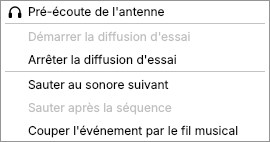
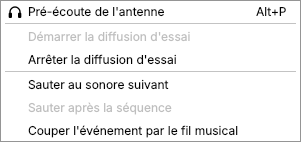
feat(interface): « Arrêter la pré-écoute de l'antenne » pendant l'écoute, et Alt+P
L'entrée en tête du menu « Diffusion » arrête l'écoute de l'antenne
pendant qu'elle joue, et la lance sinon ; Alt+P fait de même. « Nom
public » se saisit par Alt+U dans les fiches, pour laisser Alt+P libre.

https://github.com/dascritch/machincast/issues/256
Entrée menu "Pré-écoute antenne"

Claude-Session: https://claude.ai/code/session_01KaPegkCQoT3k3oMgjXGsiv

diff --git a/src/machincast/interface/fenetre.py b/src/machincast/interface/fenetre.py
@@ -22,7 +22,8 @@ La barre de menus a cinq menus (https://github.com/dascritch/machincast/issues/1
 comme la fermeture de la fenêtre) ; « Affichage », pour ouvrir les listes des sonores et des feeds, et le
 calendrier de la grille, « Grille horaire » (machincast.interface.calendrier,
 https://github.com/dascritch/machincast/issues/36), dans des onglets qui se ferment, et pour rafraîchir les onglets (F5,
-https://github.com/dascritch/machincast/issues/148) ; « Diffusion », qui démarre, arrête ou redémarre le service de
+https://github.com/dascritch/machincast/issues/148) ; « Diffusion », qui lance ou arrête l'écoute de l'antenne (Alt+P,
+https://github.com/dascritch/machincast/issues/256), et démarre, arrête ou redémarre le service de
 diffusion (machincast.interface.pilotage, https://github.com/dascritch/machincast/issues/25) selon son état, relu à
 l'ouverture du menu ; sans le service, la barre d'état dit que l'installation n'est pas définitive, et le menu pilote
 une diffusion d'essai ; « Maintenance », qui lance l'indexation rapide ou l'audit complet
@@ -122,6 +123,12 @@ REGLER_L_ANTENNE = (
 	" dans audio.peripherique du fichier de configuration."
 )
 DEJA_EN_MARCHE = "La diffusion d'essai tourne déjà"
+ECOUTE = {
+	False: ("Pré-écoute de l'antenne", "Écouter l'antenne sur la sortie de pré-écoute, aussitôt"),
+	True: ("Arrêter la pré-écoute de l'antenne", "Arrêter l'écoute de l'antenne sur la sortie de pré-écoute"),
+}
+"""L'entrée d'écoute de l'antenne du menu « Diffusion », et son infobulle, selon que l'antenne s'écoute
+(https://github.com/dascritch/machincast/issues/256)."""
 
 RACCOURCIS_DES_ONGLETS = 12
 """Les onglets qui ont un raccourci, Maj+F1 à Maj+F12 (https://github.com/dascritch/machincast/issues/192)."""
@@ -319,10 +326,12 @@ class FenetrePrincipale(QMainWindow):
 		preecoute.triggered.connect(lambda: self._preecouter(None))
 		self.menu_diffusion = self.menuBar().addMenu("&Diffusion")
 		self.menu_diffusion.aboutToShow.connect(self._relire_le_service)
-		# L'écoute de l'antenne, lancée aussitôt, en tête du menu (https://github.com/dascritch/machincast/issues/245).
-		ecouter = self.menu_diffusion.addAction(icones.icone("pré-écoute"), "Pré-écoute de l'antenne")
-		ecouter.setToolTip("Écouter l'antenne sur la sortie de pré-écoute, aussitôt")
-		ecouter.triggered.connect(lambda: self._ecouter_l_antenne(lancer=True))
+		# L'écoute de l'antenne, lancée aussitôt, en tête du menu (https://github.com/dascritch/machincast/issues/245) ;
+		# pendant l'écoute, elle l'arrête, et Alt+P fait l'un ou l'autre (https://github.com/dascritch/machincast/issues/256).
+		self.ecouter = self.menu_diffusion.addAction(icones.icone("pré-écoute"), "")
+		self.ecouter.setShortcut(QKeySequence("Alt+P"))
+		self.ecouter.triggered.connect(self._basculer_l_ecoute)
+		self._montrer_l_ecoute(False)
 		self.menu_diffusion.addSeparator()
 		self.pilotes: dict[str, QAction] = {}
 		for verbe, (entree, _reussite, _echec) in pilotage.VERBES.items():
@@ -551,11 +560,24 @@ class FenetrePrincipale(QMainWindow):
 		garde le sien."""
 		if self.preecoute is None:
 			self.preecoute = FenetrePreecoute(self.connexion, self.audio, self.configuration, self)
+			self.preecoute.ecoute_changee.connect(self._montrer_l_ecoute)
 		if (sonore is not None) or (not self.preecoute.isVisible()):
 			self.preecoute.preecouter(sonore)
 		self.preecoute.show()
 		self.preecoute.raise_()
 		self.preecoute.activateWindow()
+
+	def _basculer_l_ecoute(self) -> None:
+		"""L'entrée d'écoute de l'antenne, ou Alt+P : l'arrête pendant l'écoute, la lance sinon."""
+		if (self.preecoute is not None) and (self.preecoute.ecoute_l_antenne()):
+			self.preecoute.arreter()
+			return
+		self._ecouter_l_antenne(lancer=True)
+
+	def _montrer_l_ecoute(self, en_cours: bool) -> None:
+		texte, infobulle = ECOUTE[en_cours]
+		self.ecouter.setText(texte)
+		self.ecouter.setToolTip(infobulle)
 
 	def _ecouter_l_antenne(self, lancer: bool = False) -> None:
 		"""Clic sur le VU-mètre de l'accueil : l'antenne dans la fenêtre de pré-écoute

diff --git a/tests/test_vumetre.py b/tests/test_vumetre.py
@@ -10,6 +10,8 @@ from pathlib import Path
 
 import pytest
 from PySide6.QtCore import QRectF, Qt
+from PySide6.QtGui import QKeySequence
+from PySide6.QtWidgets import QLabel
 from pytest_bdd import given, parsers, scenarios, then, when
 from pytestqt.qtbot import QtBot
 
@@ -17,7 +19,7 @@ from machincast.configuration import Audio
 from machincast.interface import liaison, moniteur, preecoute
 from machincast.interface.moniteur import Moniteur, source_du_moniteur
 from machincast.interface.vumetre import VuMetre
-from tests.etapes_interface import Contexte, fenetre
+from tests.etapes_interface import Contexte, actions, fenetre
 from tests.etapes_preecoute import SIGNAUX, accueil
 
 scenarios("vumetre.feature")
@@ -464,3 +466,26 @@ def construire_l_ecoute(sortie: str, peripherique: str) -> object:
 def finit_par(ecoute: object, fabrique: str) -> None:
 	puits = [element for element in ecoute.children if not element.srcpads]  # type: ignore[attr-defined]
 	assert [element.get_factory().get_name() for element in puits] == [fabrique]
+
+
+# ─── Entrée d'écoute de l'antenne (https://github.com/dascritch/machincast/issues/256) ───
+
+
+@then(
+	parsers.parse(
+		"l'entrée d'écoute de l'antenne du menu « {menu} » est « {texte} », raccourci « {raccourci} », infobulle"
+		" « {infobulle} »"
+	)
+)
+def entree_d_ecoute(interface: Contexte, menu: str, texte: str, raccourci: str, infobulle: str) -> None:
+	"""L'entrée en tête du menu (https://github.com/dascritch/machincast/issues/245)."""
+	premiere = actions(interface, menu)[0]
+	assert (premiere.text(), premiere.shortcut().toString(), premiere.toolTip()) == (texte, raccourci, infobulle)
+
+
+@then(parsers.parse("le nom public de la fiche se saisit par « {touches} »"))
+def nom_public_au_clavier(interface: Contexte, touches: str) -> None:
+	fiche = fenetre(interface).ui.onglets.currentWidget()
+	etiquettes = [etiquette for etiquette in fiche.findChildren(QLabel) if etiquette.buddy() is fiche.ui.nom_public]
+	assert len(etiquettes) == 1, etiquettes
+	assert QKeySequence.mnemonic(etiquettes[0].text()).toString() == touches

diff --git a/src/machincast/interface/preecoute.py b/src/machincast/interface/preecoute.py
@@ -39,7 +39,7 @@ from psycopg.rows import TupleRow
 
 gi.require_version("Gst", "1.0")
 from gi.repository import Gst  # noqa: E402
-from PySide6.QtCore import Qt, QTimer  # noqa: E402
+from PySide6.QtCore import Qt, QTimer, Signal  # noqa: E402
 from PySide6.QtGui import QCloseEvent, QStandardItemModel  # noqa: E402
 from PySide6.QtWidgets import QVBoxLayout, QWidget  # noqa: E402
 
@@ -449,6 +449,10 @@ EN_COURS = "en cours : "
 class FenetrePreecoute(QWidget):
 	"""La fenêtre de pré-écoute : indépendante, elle ne se ferme pas avec la fiche qui l'a ouverte."""
 
+	ecoute_changee = Signal(bool)
+	"""L'écoute de l'antenne commence (vrai) ou cesse (faux) : lecture lancée, arrêtée, fenêtre fermée ou autre
+	sonore (https://github.com/dascritch/machincast/issues/256)."""
+
 	def __init__(
 		self,
 		connexion: psycopg.Connection[TupleRow],
@@ -489,7 +493,16 @@ class FenetrePreecoute(QWidget):
 		self._releve.start()
 		self.a_l_antenne = False
 		"""La fenêtre écoute l'antenne : son titre suit le texte public du sonore en cours."""
+		self._ecoute_annoncee = False
 		self.preecouter(None)
+
+	def ecoute_l_antenne(self) -> bool:
+		"""L'antenne est chargée, et sa lecture lancée, ou en pause."""
+		return (self.a_l_antenne) and (self.lecteur.actif())
+
+	def arreter(self) -> None:
+		"""Arrête la lecture, comme le bouton « ⏹ »."""
+		self._arreter()
 
 	def preecouter(self, sonore: int | None) -> None:
 		"""Le sonore à pré-écouter, à l'arrêt, à la place du précédent ; None : aucun."""
@@ -638,6 +651,9 @@ class FenetrePreecoute(QWidget):
 	def _rafraichir(self) -> None:
 		lecteur = self.lecteur
 		lecteur.relever()
+		if self.ecoute_l_antenne() != self._ecoute_annoncee:
+			self._ecoute_annoncee = self.ecoute_l_antenne()
+			self.ecoute_changee.emit(self._ecoute_annoncee)
 		ui = self.ui
 		source = lecteur.source
 		if lecteur.erreur is not None:

diff --git a/src/machincast/interface/ui/fiche_sequence.py b/src/machincast/interface/ui/fiche_sequence.py
@@ -197,7 +197,7 @@ class Ui_FicheSequence(object):
     def retranslateUi(self, FicheSequence):
         self.etiquette_nom_interne.setText(QCoreApplication.translate("FicheSequence", u"&Nom interne", None))
         self.nom_interne.setPlaceholderText(QCoreApplication.translate("FicheSequence", u"Obligatoire, et propre \u00e0 cette s\u00e9quence", None))
-        self.etiquette_nom_public.setText(QCoreApplication.translate("FicheSequence", u"Nom &public", None))
+        self.etiquette_nom_public.setText(QCoreApplication.translate("FicheSequence", u"Nom p&ublic", None))
         self.nom_public.setPlaceholderText(QCoreApplication.translate("FicheSequence", u"Affich\u00e9 \u00e0 la place de l'artiste et du titre masqu\u00e9s ; facultatif", None))
         self.etiquette_masquage.setText(QCoreApplication.translate("FicheSequence", u"&Artiste et titre", None))
         self.groupe_elements.setTitle(QCoreApplication.translate("FicheSequence", u"\u00c9l\u00e9ments, dans l'ordre de passage", None))

diff --git a/src/machincast/interface/ui/fiche_evenement.py b/src/machincast/interface/ui/fiche_evenement.py
@@ -281,7 +281,7 @@ class Ui_FicheEvenement(object):
     def retranslateUi(self, FicheEvenement):
         self.etiquette_nom_interne.setText(QCoreApplication.translate("FicheEvenement", u"&Nom interne", None))
         self.nom_interne.setPlaceholderText(QCoreApplication.translate("FicheEvenement", u"Obligatoire, et propre \u00e0 cet \u00e9v\u00e9nement", None))
-        self.etiquette_nom_public.setText(QCoreApplication.translate("FicheEvenement", u"Nom &public", None))
+        self.etiquette_nom_public.setText(QCoreApplication.translate("FicheEvenement", u"Nom p&ublic", None))
         self.nom_public.setPlaceholderText(QCoreApplication.translate("FicheEvenement", u"Affich\u00e9 \u00e0 la place de l'artiste et du titre masqu\u00e9s ; facultatif", None))
         self.etiquette_priorite.setText(QCoreApplication.translate("FicheEvenement", u"P&riorit\u00e9", None))
         self.etiquette_masquage.setText(QCoreApplication.translate("FicheEvenement", u"&Artiste et titre", None))

diff --git a/src/machincast/interface/ui/fiche_banque.py b/src/machincast/interface/ui/fiche_banque.py
@@ -323,7 +323,7 @@ class Ui_FicheBanque(object):
     def retranslateUi(self, FicheBanque):
         self.etiquette_nom_interne.setText(QCoreApplication.translate("FicheBanque", u"&Nom interne", None))
         self.nom_interne.setPlaceholderText(QCoreApplication.translate("FicheBanque", u"Obligatoire, et propre \u00e0 cette banque", None))
-        self.etiquette_nom_public.setText(QCoreApplication.translate("FicheBanque", u"Nom &public", None))
+        self.etiquette_nom_public.setText(QCoreApplication.translate("FicheBanque", u"Nom p&ublic", None))
         self.nom_public.setPlaceholderText(QCoreApplication.translate("FicheBanque", u"Affich\u00e9 \u00e0 la place de l'artiste et du titre masqu\u00e9s ; facultatif", None))
         self.etiquette_mode.setText(QCoreApplication.translate("FicheBanque", u"&Mode", None))
         self.etiquette_masquage.setText(QCoreApplication.translate("FicheBanque", u"&Artiste et titre", None))

diff --git a/doc/spec.md b/doc/spec.md
@@ -806,7 +806,7 @@ Mise en œuvre du menu ([#117](https://github.com/dascritch/machincast/issues/11
 
 - **Fichier** : « Préférences… » ([#145](https://github.com/dascritch/machincast/issues/145), `machincast.interface.preferences`). Sa première page, « Crossfades » ([#234](https://github.com/dascritch/machincast/issues/234)), règle la granularité, la durée maximale et les durées par défaut des crossfades, et la position des fondus par rapport aux blancs détectés : « Le fade-in, au début détecté » et « Le fade-out, à la fin détectée », chacun « commence », « est en cours » ou « se termine », enregistrés dans `crossfades.position_entree` et `crossfades.position_sortie`. Une frise de démonstration, celle de la pré-écoute ([§ 8.3](#83-écran-de-détails-dun-sonore)), non interactive, montre un sonore inventé de 30 s, aux blancs de 3 s et 4 s retirés à l'antenne, avec une forme d'onde inventée (`frise.forme_de_demonstration`), les durées par défaut saisies, même décochées, et les positions choisies ; elle suit chaque réglage, et sa légende donne la partie jouée. La page « Audio » règle les périphériques de l'antenne et de la pré-écoute, enregistrés dans `audio.peripherique` et `audio.preecoute` ; chacun est grisé dans l'autre choix, et « OK » ne donne jamais le même aux deux ([#116](https://github.com/dascritch/machincast/issues/116)) ; elle règle aussi le seuil de blanc, de -100 à -0,1 dB, enregistré dans `blancs.seuil` ([#146](https://github.com/dascritch/machincast/issues/146)) ; les réglages des crossfades s'enregistrent dans la section `[crossfades]` du fichier de configuration par tomlkit, qui garde ses commentaires ; les fiches ouvertes ensuite les suivent, et Machin lecture les prend à son prochain démarrage ; inactive sans fichier de configuration ; « Quitter » (Alt+Q), qui ferme la fenêtre comme sa case de fermeture, après la question sur les fiches modifiées. La page « Interface » affiche ou cache aussi le voyant « Saturation » de l'accueil, enregistré dans `interface.saturation`, et l'accueil le suit aussitôt ([#191](https://github.com/dascritch/machincast/issues/191)). Elle active ou éteint les suggestions au lancement, enregistrées dans `interface.suggestions` ([#119](https://github.com/dascritch/machincast/issues/119)). Elle choisit enfin l'icône de l'application ([#111](https://github.com/dascritch/machincast/issues/111)) : un aperçu, le chemin de l'image ou « Icône de MachinCast », « Choisir une image… » (SVG, PNG ou JPEG ; une image que Qt ne sait pas lire n'est pas prise, et la page affiche « Image illisible : … ») et « Icône de MachinCast », qui y revient. L'image est enregistrée dans `interface.icone`, retiré pour l'icône de MachinCast. Une icône changée vaut aussitôt pour les fenêtres, et pour les raccourcis déjà installés dans le menu des applications et sur le bureau (`machincast.raccourci.reecrire`), réécrits en gardant leurs droits, puisque sous Wayland la barre des tâches et le menu prennent l'icône du raccourci ; aucun raccourci n'est créé. La barre d'état dit où l'icône a été mise à jour. Au lancement, une icône illisible ou introuvable laisse celle de MachinCast, et la barre d'état le dit.
 - **Affichage** : « Rechercher… » (Ctrl+F) ouvre l'onglet de la recherche globale ([#27](https://github.com/dascritch/machincast/issues/27), [§ 8.2](#82-recherche-et-navigation)) ; « Ouvrir l'onglet Sonores » et « Ouvrir l'onglet Feeds » ouvrent ces listes ([#180](https://github.com/dascritch/machincast/issues/180)) ; « Ouvrir l'onglet Grille horaire » ouvre l'onglet du calendrier, « Calendrier » ([§ 8.2](#82-recherche-et-navigation)) ; « Ouvrir l'onglet Simulation » ouvre l'onglet de la simulation ([#37](https://github.com/dascritch/machincast/issues/37), [§ 8.7](#87-écran-de-simulation)) ; « Ouvrir l'onglet Airplay » ouvre l'onglet de l'airplay ([#244](https://github.com/dascritch/machincast/issues/244), [§ 8.1](#81-écran-par-défaut)) ; « Pré-écoute… » ouvre la fenêtre de pré-écoute ([#116](https://github.com/dascritch/machincast/issues/116), [§ 8.3](#83-écran-de-détails-dun-sonore)) ; « Rafraîchir les onglets » (F5, [#148](https://github.com/dascritch/machincast/issues/148), `FenetrePrincipale.rafraichir`) relit l'onglet ouvert, l'airplay de l'accueil et chaque fiche ouverte (`Fiche.rafraichir`). Une fiche modifiée pose la question de fermeture (« avant de rafraîchir la fiche ») : enregistrer puis relire, abandonner et relire, ou la laisser telle quelle ; un enregistrement refusé la laisse aussi. La fiche d'un élément qui n'est plus en base se ferme. La barre d'état nomme les fiches laissées et fermées. Passer à un onglet le relit aussi ([#241](https://github.com/dascritch/machincast/issues/241), `FenetrePrincipale._onglet_ouvert`), s'il n'est pas en cours d'édition : une liste, les incidents, le calendrier, la recherche, l'onglet Airplay, l'airplay de l'accueil, et une fiche qui n'est pas modifiée, sans question ; une fiche modifiée reste telle quelle, et celle d'un élément effacé de la base se ferme (« Fiche fermée, son élément n'est plus en base : … »).
-- **Diffusion**, en tête : « Pré-écoute de l'antenne », avec l'icône du casque, puis un trait ([#245](https://github.com/dascritch/machincast/issues/245)) ; elle écoute l'antenne aussitôt dans la fenêtre de pré-écoute ([§ 8.3](#83-écran-de-détails-dun-sonore)). Puis ([#25](https://github.com/dascritch/machincast/issues/25), `machincast.interface.pilotage`) : « Démarrer la diffusion », « Arrêter la diffusion » ; « Redémarrer » n'est plus proposé ([#223](https://github.com/dascritch/machincast/issues/223)) : arrêter puis démarrer fait de même. Avec le service `machincast.service` ([§ 10](#10-installation-et-déploiement)), chacune appelle `systemctl start|stop|restart machincast.service` dans un processus à part (`QProcess`), sans attendre : la règle polkit demande l'authentification d'un administrateur à l'agent polkit de la session ; jamais `sudo`. La barre d'état dit la réussite (« Diffusion démarrée. », « Diffusion arrêtée. », « Diffusion redémarrée. ») ou l'échec, avec le message de systemctl (« Diffusion non démarrée : … »). Les entrées suivent l'état du service (`ActiveState` de `systemctl show`, `machincast.service.lire_l_etat`), relu au lancement, à l'ouverture du menu et après chaque commande : arrêté ou en échec, démarrer ; en marche, arrêter. **Sans le service**, l'installation n'est pas définitive : la barre d'état le signale en permanence (« Installation non définitive : diffusion sans service »), avec une infobulle qui dit comment installer le service ; le menu pilote alors une **diffusion d'essai**, `Machin lecture` lancé à la main (ce n'est pas `Machin lecture --simulation`, qui ne joue rien) : « Démarrer la diffusion d'essai » lance `bin/Machin lecture`, la commande même du service (`pilotage.COMMANDE_DU_SERVICE`), qui lit la configuration du service, le `machincast.toml` du répertoire de MachinCast, et diffuse donc sur le même périphérique que lui ; dans une fenêtre de terminal (konsole, sinon x-terminal-emulator), détachée de l'interface. Une interface lancée sur une autre configuration le dit dans sa barre d'état ; `Machin lecture` annonce à son démarrage sa sortie, son périphérique et sa configuration ; « Arrêter la diffusion d'essai » envoie `SIGTERM`, comme `Ctrl-C`, au processus qui répond sur la socket d'état (son pid, lu par `SO_PEERCRED`, `ClientEtat.pid_du_lecteur`), et annonce l'arrêt quand la socket se ferme. Démarrer n'est active que sans diffusion sur la socket, arrêter qu'avec elle.
+- **Diffusion**, en tête : « Pré-écoute de l'antenne », avec l'icône du casque, puis un trait ([#245](https://github.com/dascritch/machincast/issues/245)) ; elle écoute l'antenne aussitôt dans la fenêtre de pré-écoute ([§ 8.3](#83-écran-de-détails-dun-sonore)). Pendant l'écoute de l'antenne, lancée ou en pause, l'entrée devient « Arrêter la pré-écoute de l'antenne », qui l'arrête ; elle redevient « Pré-écoute de l'antenne » à l'arrêt, à la fermeture de la fenêtre ou quand elle passe à un sonore (`FenetrePreecoute.ecoute_changee`, [#256](https://github.com/dascritch/machincast/issues/256)). Alt+P fait l'un ou l'autre, dans la fenêtre principale ; pour le lui laisser, « Nom public » se saisit par Alt+U dans les fiches. Puis ([#25](https://github.com/dascritch/machincast/issues/25), `machincast.interface.pilotage`) : « Démarrer la diffusion », « Arrêter la diffusion » ; « Redémarrer » n'est plus proposé ([#223](https://github.com/dascritch/machincast/issues/223)) : arrêter puis démarrer fait de même. Avec le service `machincast.service` ([§ 10](#10-installation-et-déploiement)), chacune appelle `systemctl start|stop|restart machincast.service` dans un processus à part (`QProcess`), sans attendre : la règle polkit demande l'authentification d'un administrateur à l'agent polkit de la session ; jamais `sudo`. La barre d'état dit la réussite (« Diffusion démarrée. », « Diffusion arrêtée. », « Diffusion redémarrée. ») ou l'échec, avec le message de systemctl (« Diffusion non démarrée : … »). Les entrées suivent l'état du service (`ActiveState` de `systemctl show`, `machincast.service.lire_l_etat`), relu au lancement, à l'ouverture du menu et après chaque commande : arrêté ou en échec, démarrer ; en marche, arrêter. **Sans le service**, l'installation n'est pas définitive : la barre d'état le signale en permanence (« Installation non définitive : diffusion sans service »), avec une infobulle qui dit comment installer le service ; le menu pilote alors une **diffusion d'essai**, `Machin lecture` lancé à la main (ce n'est pas `Machin lecture --simulation`, qui ne joue rien) : « Démarrer la diffusion d'essai » lance `bin/Machin lecture`, la commande même du service (`pilotage.COMMANDE_DU_SERVICE`), qui lit la configuration du service, le `machincast.toml` du répertoire de MachinCast, et diffuse donc sur le même périphérique que lui ; dans une fenêtre de terminal (konsole, sinon x-terminal-emulator), détachée de l'interface. Une interface lancée sur une autre configuration le dit dans sa barre d'état ; `Machin lecture` annonce à son démarrage sa sortie, son périphérique et sa configuration ; « Arrêter la diffusion d'essai » envoie `SIGTERM`, comme `Ctrl-C`, au processus qui répond sur la socket d'état (son pid, lu par `SO_PEERCRED`, `ClientEtat.pid_du_lecteur`), et annonce l'arrêt quand la socket se ferme. Démarrer n'est active que sans diffusion sur la socket, arrêter qu'avec elle.
 - **Interruptions** ([#104](https://github.com/dascritch/machincast/issues/104), [#228](https://github.com/dascritch/machincast/issues/228), `machincast.interface.interruption`) : après un trait, « Sauter au sonore suivant », « Sauter après la séquence », « Couper l'événement par le fil musical » ([§ 4.9](#49-interruption-manuelle)). Elles suivent l'état de la socket d'état : chacune n'est active que si son élément est à l'antenne, la dernière hors du fil musical (`evenement_priorite`), et son infobulle le nomme (« « Café à minuit » ») ou dit pourquoi elle est inactive (« Rien à l'antenne », « Aucune séquence à l'antenne », « Le fil musical est déjà à l'antenne »). Choisie, elle envoie la demande aussitôt, sans question (décision de [#104](https://github.com/dascritch/machincast/issues/104)) ; la barre d'état l'annonce (« Saut au sonore suivant demandé. »), ou dit que `Machin_lecture` ne répond pas sur sa socket d'état.
 - **Maintenance** : « Moniteur de la sortie… », à venir ; « Indexation rapide » et « Audit complet » (ci-dessous).
 - **Aide** : « Documentation » ouvre le guide de l'antenne, `doc/utilisateur/README.md` sur GitHub, dans le navigateur web ([#128](https://github.com/dascritch/machincast/issues/128)) ; « Signaler un problème… » ouvre les tickets GitHub dans le navigateur web (`dialogues.ouvrir_page`) ; « Version » montre le numéro de version et la date du dernier commit du dépôt d'où MachinCast est installé, à l'heure du poste (`machincast.interface.version`, `dialogues.montrer_version`), ou dit qu'elle est inconnue hors d'un dépôt git ou sans git.

diff --git a/doc/utilisateur/prise-en-main.md b/doc/utilisateur/prise-en-main.md
@@ -80,7 +80,7 @@ Entre les deux sonores, la colonne **Antenne** montre ce qui sort réellement à
 - **Saturation**, au-dessus : ce voyant s'allume, rouge, dès qu'une crête atteint -1 dB, et le reste 3 secondes. Il se cache dans les [préférences](#préférences).
 - **VU-mètre** : une barre par canal, « G » et « D », de -60 dB en bas à 0 dB en haut, séparées par l'échelle. La partie pleine est le niveau moyen ; la partie plus claire au-dessus, la crête du moment ; un trait garde la plus haute crête pendant 2 secondes. Vert, orange au-delà de -12 dB, rouge au-delà de -3 dB.
 - **Silence**, en dessous : ce voyant s'allume, orange, quand le son reste à -50 dB ou moins pendant 5 secondes : un blanc d'antenne. Il s'éteint dès que le son revient.
-- **Écouter l'antenne** : un clic sur le VU-mètre ouvre la [pré-écoute](sonores.md#pré-écoute) sur l'antenne, sans la lancer. **Diffusion → Pré-écoute de l'antenne** l'ouvre de même, et la lance aussitôt ([#245](https://github.com/dascritch/machincast/issues/245)). Le titre de la fenêtre d'écoute est « en cours : » suivi du texte public du sonore à l'antenne, et le suit d'un sonore à l'autre.
+- **Écouter l'antenne** : un clic sur le VU-mètre ouvre la [pré-écoute](sonores.md#pré-écoute) sur l'antenne, sans la lancer. **Diffusion → Pré-écoute de l'antenne**, ou <kbd>Alt</kbd>+<kbd>P</kbd>, l'ouvre de même, et la lance aussitôt ([#245](https://github.com/dascritch/machincast/issues/245)) ; pendant l'écoute, l'entrée devient **Arrêter la pré-écoute de l'antenne**, et <kbd>Alt</kbd>+<kbd>P</kbd> l'arrête aussi ([#256](https://github.com/dascritch/machincast/issues/256)). Le titre de la fenêtre d'écoute est « en cours : » suivi du texte public du sonore à l'antenne, et le suit d'un sonore à l'autre.
 
 Le VU-mètre écoute le périphérique de l'antenne, quel que soit le programme qui y joue. Quand il ne peut pas, un message le dit sous les voyants :
 
@@ -119,7 +119,7 @@ Une fonction pas encore écrite a déjà son entrée, grisée : son infobulle do
 | Affichage | Ouvrir l'onglet Simulation | Ouvre la simulation ([Simulation](grille.md#simulation)). |
 | Affichage | Ouvrir l'onglet Airplay | Ouvre l'historique de diffusion, réglable et exportable ([Onglet Airplay](#onglet-airplay)). |
 | Affichage | Pré-écoute… | Ouvre la fenêtre de pré-écoute ([Pré-écoute](sonores.md#pré-écoute)). Comme chaque bouton et chaque entrée de pré-écoute, elle porte un casque. |
-| Diffusion | Pré-écoute de l'antenne | En tête du menu : écoute aussitôt l'antenne sur la sortie de pré-écoute ([Pré-écoute](sonores.md#pré-écoute), [#245](https://github.com/dascritch/machincast/issues/245)). |
+| Diffusion | Pré-écoute de l'antenne, Arrêter la pré-écoute de l'antenne | En tête du menu : écoute aussitôt l'antenne sur la sortie de pré-écoute ([Pré-écoute](sonores.md#pré-écoute), [#245](https://github.com/dascritch/machincast/issues/245)), puis, pendant l'écoute, l'arrête ; aussi par <kbd>Alt</kbd>+<kbd>P</kbd> ([#256](https://github.com/dascritch/machincast/issues/256)). |
 | Diffusion | Démarrer, Arrêter la diffusion | Pilotent la diffusion ([Piloter la diffusion](antenne.md#piloter-la-diffusion)). |
 | Diffusion | Sauter au sonore suivant, Sauter après la séquence, Couper l'événement par le fil musical | Corrigent l'antenne sans attendre ([Interrompre l'antenne](antenne.md#interrompre-lantenne)). |
 | Maintenance | Indexation rapide, Audit complet | Vérifient les sonores ([Indexation depuis l'interface](sonores.md#indexation-depuis-linterface)). |
